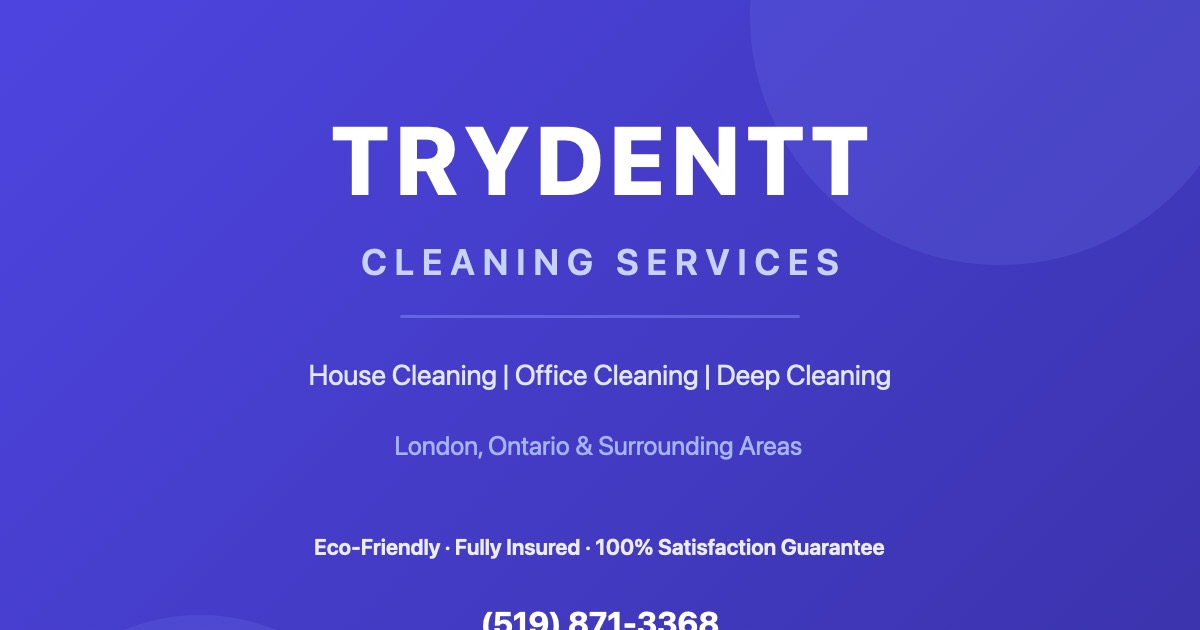
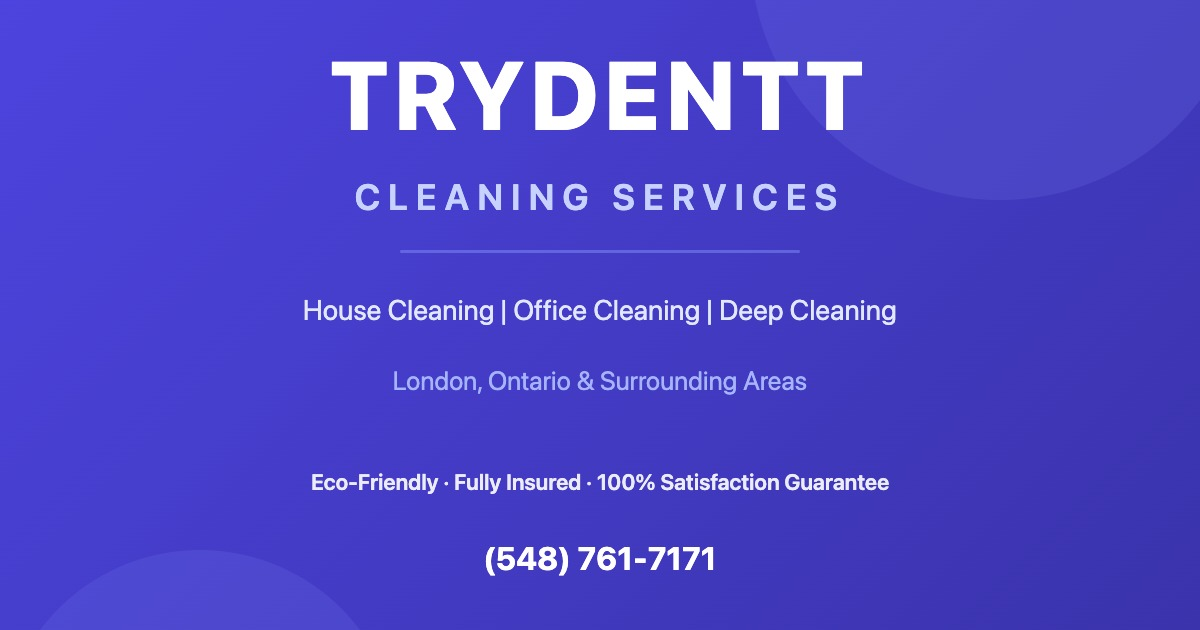
Show the Cleaning tracking line (548) 761-7171 on the site
Every shown number and tel: link moves to 548, which rings the
Trydentt line with a 'Website call' whisper. The schema telephone
stays 519 to match the Google Business Profile. Share image from the
2026-10-21 swap (number readable, re-centred).

diff --git a/site/assets/site.js b/site/assets/site.js
@@ -2,8 +2,8 @@
    moves to /thank-you once the lead is delivered. If it isn't, the visitor is told to call. */
 (function () {
   'use strict';
-  var PHONE = '(519) 871-3368';
-  var TEL = 'tel:+15198713368';
+  var PHONE = '(548) 761-7171';
+  var TEL = 'tel:+15487617171';
   var CALC = window.TC_CALC || null;
 
   function cookie(n) {
